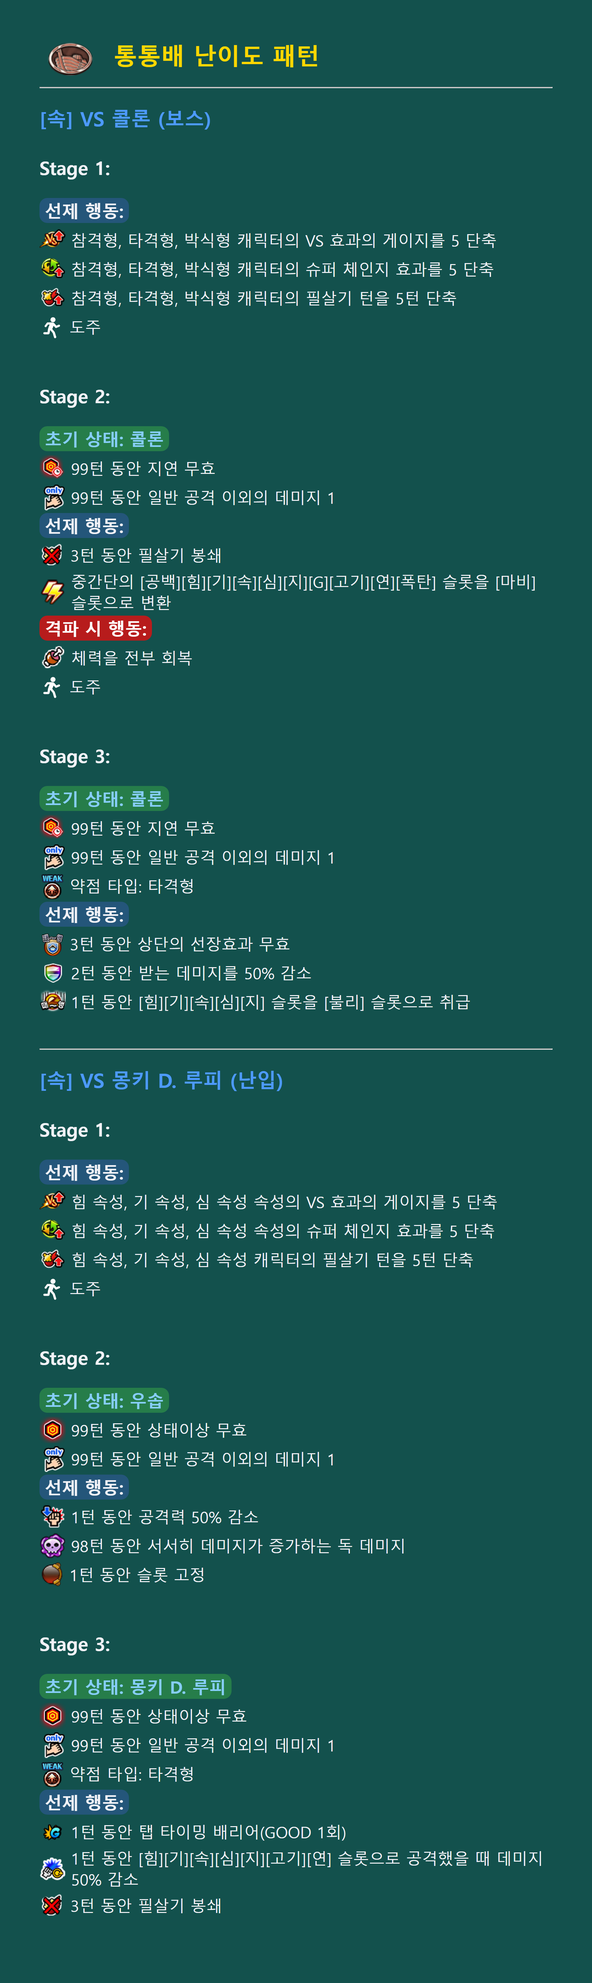
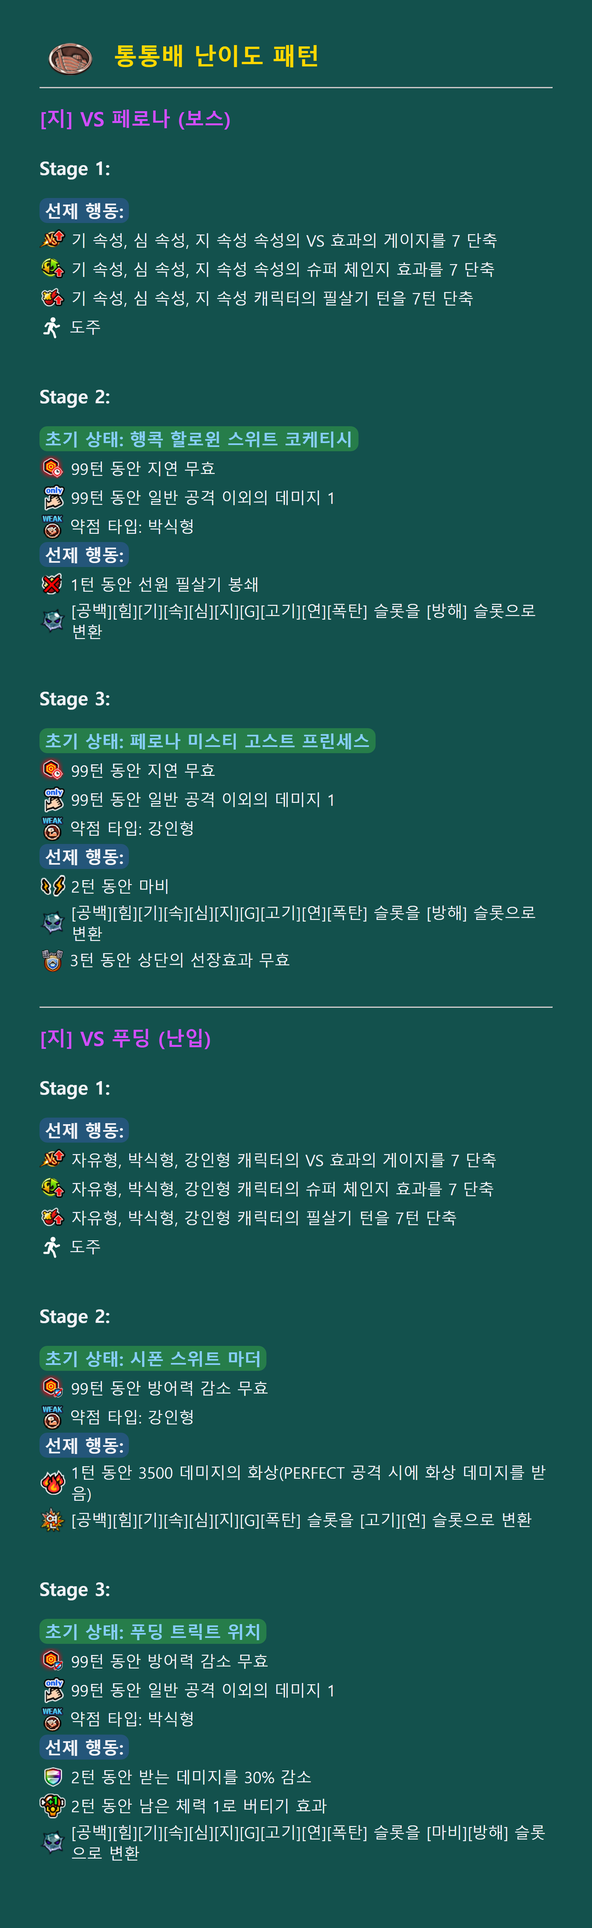
변경

diff --git a/TM_NW_full.html b/TM_NW_full.html
@@ -3,7 +3,7 @@
 <h1 style="solid #ccc; padding-bottom:10px;">
 <img src="img/icon_league_3.png" style="height:58px; vertical-align:middle; margin-right:6px;">
 신세계 난이도 패턴</h1>
-<hr><h2><span style='color:#4d9aff'>[속] VS 콜론</span><span style='color:#4d9aff'> (보스) </span></h2>
+<hr><h2><span style='color:#d24dff'>[지] VS 페로나</span><span style='color:#d24dff'> (보스) </span></h2>
 <html>
 <head>
 <meta charset="UTF-8">
@@ -26,35 +26,40 @@
        <h1></h1>
 <h3>Stage 1:</h3>
 <span class="label-preemptive">선제 행동:</span><br>
-<div class="icon-line"><img src="img/characterbox_icon_vs.png">참격형, 타격형, 박식형 캐릭터의 VS 효과의 게이지를 5 단축</div>
-<div class="icon-line"><img src="img/common_change_charge.png">참격형, 타격형, 박식형 캐릭터의 슈퍼 체인지 효과를 5 단축</div>
-<div class="icon-line"><img src="img/common_special_charge.png">참격형, 타격형, 박식형 캐릭터의 필살기 턴을 5턴 단축</div>
+<div class="icon-line"><img src="img/characterbox_icon_vs.png">기 속성, 심 속성, 지 속성 속성의 VS 효과의 게이지를 7 단축</div>
+<div class="icon-line"><img src="img/common_change_charge.png">기 속성, 심 속성, 지 속성 속성의 슈퍼 체인지 효과를 7 단축</div>
+<div class="icon-line"><img src="img/common_special_charge.png">기 속성, 심 속성, 지 속성 캐릭터의 필살기 턴을 7턴 단축</div>
 <div class="icon-line"><img src="img/common_run.png">도주</div>
 <br>
 <h3>Stage 2:</h3>
-<span class="label-initial" style="color:#87cefa">초기 상태: 콜론</span><br>
+<span class="label-initial" style="color:#87cefa">초기 상태: 행콕 할로윈 스위트 코케티시</span><br>
 <div class="icon-line"><img src="img/common_icon_mighty_guard_01.png">99턴 동안 지연 무효</div>
 <div class="icon-line"><img src="img/common_icon_damage_onlyone.png">99턴 동안 일반 공격 이외의 데미지 1</div>
+<div class="icon-line"><img src="img/common_weak_07.png">약점 타입: 박식형</div>
 <span class="label-preemptive">선제 행동:</span><br>
-<div class="icon-line"><img src="img/common_special_bind.png">10턴 동안 필살기 봉쇄</div>
-<div class="icon-line"><img src="img/popuptext_slot_palsy.png">[공백][힘][기][속][심][지][G][고기][연][폭탄] 슬롯을 [마비] 슬롯으로 변환</div>
-<span class="label-death">격파 시 행동:</span><br>
-<div class="icon-line"><img src="img/common_heal.png">체력을 전부 회복</div>
-<div class="icon-line"><img src="img/common_run.png">도주</div>
+<div class="icon-line"><img src="img/common_special_bind.png">5턴 동안 선원 필살기 봉쇄</div>
+<div class="icon-line"><img src="img/common_icon_chain_damagedown.png">1턴 동안 체인 계수가 2.5 이하일 경우 공격력 90% 감소</div>
+<div class="icon-line"><img src="img/popuptext_slot_obstacle.png">[공백][힘][기][속][심][지][G][고기][연][폭탄] 슬롯을 [방해] 슬롯으로 변환</div>
 <br>
 <h3>Stage 3:</h3>
-<span class="label-initial" style="color:#87cefa">초기 상태: 콜론</span><br>
+<span class="label-initial" style="color:#87cefa">초기 상태: 페로나 미스티 고스트 프린세스</span><br>
 <div class="icon-line"><img src="img/common_icon_mighty_guard_01.png">99턴 동안 지연 무효</div>
 <div class="icon-line"><img src="img/common_icon_damage_onlyone.png">99턴 동안 일반 공격 이외의 데미지 1</div>
-<div class="icon-line"><img src="img/common_weak_03.png">약점 타입: 타격형</div>
+<div class="icon-line"><img src="img/common_weak_08.png">약점 타입: 강인형</div>
 <span class="label-preemptive">선제 행동:</span><br>
+<div class="icon-line"><img src="img/common_icon_chain_damagedown.png">5턴 동안 체인 계수가 3.0 이하일 경우 공격력 90% 감소</div>
+<div class="icon-line"><img src="img/common_palsy.png">6턴 동안 마비</div>
+<div class="icon-line"><img src="img/popuptext_slot_obstacle.png">[공백][힘][기][속][심][지][G][고기][연][폭탄] 슬롯을 [방해] 슬롯으로 변환</div>
 <div class="icon-line"><img src="img/common_despair.png">9턴 동안 상단의 선장효과 무효</div>
-<div class="icon-line"><img src="img/common_icon_damagecut_dummy.png">14턴 동안 받는 데미지를 70% 감소</div>
-<div class="icon-line"><img src="img/common_stun.png">좌측은(는) 받는 데미지 2배의 기절</div>
-<div class="icon-line"><img src="img/common_icon_incidence_down_own.png">3턴 동안 [힘][기][속][심][지] 슬롯을 [불리] 슬롯으로 취급</div>
+<div class="icon-line"><img src="img/quest_combo_barrier_meat.png">2턴 동안 슬롯 배리어([고기] 슬롯 2회)</div>
+<span class="label-special" style="color:#87cefa">특수 끼어들기: 모든 체인 상승 효과</span><br>
+<div class="icon-line">1회까지</div>
+<div class="icon-line"><img src="img/common_del.png">유리 효과, 축적치 해제</div>
+<div class="icon-line"><img src="img/state_icon_invincible.png">1턴 동안 받는 데미지 무효</div>
+<div class="icon-line"><img src="img/common_icon_tap_countlimit.png">2턴 동안 탭 횟수 제한 3회</div>
 <br>
 </body></html>
-<hr><h2><span style='color:#4d9aff'>[속] VS 몽키 D. 루피</span><span style='color:#4d9aff'> (난입) </span></h2>
+<hr><h2><span style='color:#d24dff'>[지] VS 푸딩</span><span style='color:#d24dff'> (난입) </span></h2>
 <html>
 <head>
 <meta charset="UTF-8">
@@ -77,34 +82,34 @@
        <h1></h1>
 <h3>Stage 1:</h3>
 <span class="label-preemptive">선제 행동:</span><br>
-<div class="icon-line"><img src="img/characterbox_icon_vs.png">힘 속성, 기 속성, 심 속성 속성의 VS 효과의 게이지를 5 단축</div>
-<div class="icon-line"><img src="img/common_change_charge.png">힘 속성, 기 속성, 심 속성 속성의 슈퍼 체인지 효과를 5 단축</div>
-<div class="icon-line"><img src="img/common_special_charge.png">힘 속성, 기 속성, 심 속성 캐릭터의 필살기 턴을 5턴 단축</div>
+<div class="icon-line"><img src="img/characterbox_icon_vs.png">자유형, 박식형, 강인형 캐릭터의 VS 효과의 게이지를 7 단축</div>
+<div class="icon-line"><img src="img/common_change_charge.png">자유형, 박식형, 강인형 캐릭터의 슈퍼 체인지 효과를 7 단축</div>
+<div class="icon-line"><img src="img/common_special_charge.png">자유형, 박식형, 강인형 캐릭터의 필살기 턴을 7턴 단축</div>
 <div class="icon-line"><img src="img/common_run.png">도주</div>
 <br>
 <h3>Stage 2:</h3>
-<span class="label-initial" style="color:#87cefa">초기 상태: 우솝</span><br>
-<div class="icon-line"><img src="img/common_icon_mighty_guard_00.png">99턴 동안 상태이상 무효</div>
-<div class="icon-line"><img src="img/common_icon_damage_onlyone.png">99턴 동안 일반 공격 이외의 데미지 1</div>
+<span class="label-initial" style="color:#87cefa">초기 상태: 시폰 스위트 마더</span><br>
+<div class="icon-line"><img src="img/common_icon_mighty_guard_04.png">99턴 동안 방어력 감소 무효</div>
+<div class="icon-line"><img src="img/common_weak_08.png">약점 타입: 강인형</div>
 <span class="label-preemptive">선제 행동:</span><br>
-<div class="icon-line"><img src="img/common_state_icon_attack_down.png">6턴 동안 공격력 90% 감소</div>
-<div class="icon-line"><img src="img/popuptext_slot_poison.png">98턴 동안 서서히 데미지가 증가하는 독 데미지</div>
-<div class="icon-line"><img src="img/common_slot_lock.png">1턴 동안 슬롯 고정</div>
-<div class="icon-line"><img src="img/quest_combo_barrer_hit.png">3턴 동안 hit 배리어(20hit)</div>
-<div class="icon-line"><img src="img/popuptext_slot_poison.png">[공백][힘][기][속][심][지][G][고기][연][폭탄] 슬롯을 [독] 슬롯으로 변환</div>
+<div class="icon-line"><img src="img/common_icon_251_skill.png">7턴 동안 20000 데미지의 화상(PERFECT 공격 시에 화상 데미지를 받음)</div>
+<div class="icon-line"><img src="img/common_icon_taunt.png">1턴 동안 타겟 고정</div>
+<div class="icon-line"><img src="img/popuptext_slot_cooperation.png">[공백][힘][기][속][심][지][G][폭탄] 슬롯을 [고기][연] 슬롯으로 변환</div>
+<div class="icon-line"><img src="img/common_silence.png">1턴 동안 상단, 하단 침묵</div>
 <br>
 <h3>Stage 3:</h3>
-<span class="label-initial" style="color:#87cefa">초기 상태: 몽키 D. 루피</span><br>
-<div class="icon-line"><img src="img/common_icon_mighty_guard_00.png">99턴 동안 상태이상 무효</div>
+<span class="label-initial" style="color:#87cefa">초기 상태: 푸딩 트릭트 위치</span><br>
+<div class="icon-line"><img src="img/common_icon_mighty_guard_04.png">99턴 동안 방어력 감소 무효</div>
 <div class="icon-line"><img src="img/common_icon_damage_onlyone.png">99턴 동안 일반 공격 이외의 데미지 1</div>
-<div class="icon-line"><img src="img/common_weak_03.png">약점 타입: 타격형</div>
+<div class="icon-line"><img src="img/common_weak_07.png">약점 타입: 박식형</div>
 <span class="label-preemptive">선제 행동:</span><br>
-<div class="icon-line"><img src="img/quest_combo_barrier_1.png">3턴 동안 탭 타이밍 배리어(GOOD 3회)</div>
 <div class="icon-line"><img src="img/common_territory.png">2턴 동안 장소를 ‘구역: 적’(으)로 만든다</div>
-<div class="icon-line"><img src="img/common_icon_247_skill.png">3턴 동안 [힘][기][속][심][지][고기][연] 슬롯으로 공격했을 때 데미지 70% 감소</div>
-<div class="icon-line"><img src="img/common_special_bind.png">10턴 동안 필살기 봉쇄</div>
 <div class="icon-line"><img src="img/common_attack_up_01_icon.png">3턴 동안 일당의 공격력을 1.1배</div>
-<div class="icon-line"><img src="img/common_icon_slot.png">3턴 동안 슬롯의 영향을 1.1배</div>
+<div class="icon-line">3턴 동안 일반 공격에 의한 속성 상성의 영향을 1.1배</div>
+<div class="icon-line"><img src="img/common_icon_damagecut_dummy.png">6턴 동안 받는 데미지를 90% 감소</div>
+<div class="icon-line"><img src="img/common_guts_icon.png">6턴 동안 남은 체력 1로 버티기 효과</div>
+<div class="icon-line"><img src="img/popuptext_slot_obstacle.png">[공백][힘][기][속][심][지][G][고기][연][폭탄] 슬롯을 [마비][방해] 슬롯으로 변환</div>
+<div class="icon-line"><img src="img/common_blow.png">2턴 동안 선원, 좌측 상단을(를) 랜덤 3명 날려버리기</div>
 <br>
 </body></html>
 </body></html>

diff --git a/TM_GL_full.html b/TM_GL_full.html
@@ -3,7 +3,7 @@
 <h1 style="solid #ccc; padding-bottom:10px;">
 <img src="img/icon_league_2.png" style="height:58px; vertical-align:middle; margin-right:6px;">
 위대한 항로 난이도 패턴</h1>
-<hr><h2><span style='color:#4d9aff'>[속] VS 콜론</span><span style='color:#4d9aff'> (보스) </span></h2>
+<hr><h2><span style='color:#d24dff'>[지] VS 페로나</span><span style='color:#d24dff'> (보스) </span></h2>
 <html>
 <head>
 <meta charset="UTF-8">
@@ -26,35 +26,34 @@
        <h1></h1>
 <h3>Stage 1:</h3>
 <span class="label-preemptive">선제 행동:</span><br>
-<div class="icon-line"><img src="img/characterbox_icon_vs.png">참격형, 타격형, 박식형 캐릭터의 VS 효과의 게이지를 5 단축</div>
-<div class="icon-line"><img src="img/common_change_charge.png">참격형, 타격형, 박식형 캐릭터의 슈퍼 체인지 효과를 5 단축</div>
-<div class="icon-line"><img src="img/common_special_charge.png">참격형, 타격형, 박식형 캐릭터의 필살기 턴을 5턴 단축</div>
+<div class="icon-line"><img src="img/characterbox_icon_vs.png">기 속성, 심 속성, 지 속성 속성의 VS 효과의 게이지를 7 단축</div>
+<div class="icon-line"><img src="img/common_change_charge.png">기 속성, 심 속성, 지 속성 속성의 슈퍼 체인지 효과를 7 단축</div>
+<div class="icon-line"><img src="img/common_special_charge.png">기 속성, 심 속성, 지 속성 캐릭터의 필살기 턴을 7턴 단축</div>
 <div class="icon-line"><img src="img/common_run.png">도주</div>
 <br>
 <h3>Stage 2:</h3>
-<span class="label-initial" style="color:#87cefa">초기 상태: 콜론</span><br>
+<span class="label-initial" style="color:#87cefa">초기 상태: 행콕 할로윈 스위트 코케티시</span><br>
 <div class="icon-line"><img src="img/common_icon_mighty_guard_01.png">99턴 동안 지연 무효</div>
 <div class="icon-line"><img src="img/common_icon_damage_onlyone.png">99턴 동안 일반 공격 이외의 데미지 1</div>
+<div class="icon-line"><img src="img/common_weak_07.png">약점 타입: 박식형</div>
 <span class="label-preemptive">선제 행동:</span><br>
-<div class="icon-line"><img src="img/common_special_bind.png">5턴 동안 필살기 봉쇄</div>
-<div class="icon-line"><img src="img/popuptext_slot_palsy.png">선원의 [공백][힘][기][속][심][지][G][고기][연][폭탄] 슬롯을 [마비] 슬롯으로 변환</div>
-<span class="label-death">격파 시 행동:</span><br>
-<div class="icon-line"><img src="img/common_heal.png">체력을 전부 회복</div>
-<div class="icon-line"><img src="img/common_run.png">도주</div>
+<div class="icon-line"><img src="img/common_special_bind.png">3턴 동안 선원 필살기 봉쇄</div>
+<div class="icon-line"><img src="img/common_icon_chain_damagedown.png">1턴 동안 체인 계수가 2.0 이하일 경우 공격력 70% 감소</div>
+<div class="icon-line"><img src="img/popuptext_slot_obstacle.png">[공백][힘][기][속][심][지][G][고기][연][폭탄] 슬롯을 [방해] 슬롯으로 변환</div>
 <br>
 <h3>Stage 3:</h3>
-<span class="label-initial" style="color:#87cefa">초기 상태: 콜론</span><br>
+<span class="label-initial" style="color:#87cefa">초기 상태: 페로나 미스티 고스트 프린세스</span><br>
 <div class="icon-line"><img src="img/common_icon_mighty_guard_01.png">99턴 동안 지연 무효</div>
 <div class="icon-line"><img src="img/common_icon_damage_onlyone.png">99턴 동안 일반 공격 이외의 데미지 1</div>
-<div class="icon-line"><img src="img/common_weak_03.png">약점 타입: 타격형</div>
+<div class="icon-line"><img src="img/common_weak_08.png">약점 타입: 강인형</div>
 <span class="label-preemptive">선제 행동:</span><br>
-<div class="icon-line"><img src="img/common_despair.png">5턴 동안 상단의 선장효과 무효</div>
-<div class="icon-line"><img src="img/common_icon_damagecut_dummy.png">6턴 동안 받는 데미지를 70% 감소</div>
-<div class="icon-line"><img src="img/common_stun.png">좌측은(는) 받는 데미지 1.2배의 기절</div>
-<div class="icon-line"><img src="img/common_icon_incidence_down_own.png">2턴 동안 [힘][기][속][심][지] 슬롯을 [불리] 슬롯으로 취급</div>
+<div class="icon-line"><img src="img/common_icon_chain_damagedown.png">2턴 동안 체인 계수가 2.5 이하일 경우 공격력 70% 감소</div>
+<div class="icon-line"><img src="img/common_palsy.png">3턴 동안 마비</div>
+<div class="icon-line"><img src="img/popuptext_slot_obstacle.png">[공백][힘][기][속][심][지][G][고기][연][폭탄] 슬롯을 [방해] 슬롯으로 변환</div>
+<div class="icon-line"><img src="img/common_despair.png">4턴 동안 상단의 선장효과 무효</div>
 <br>
 </body></html>
-<hr><h2><span style='color:#4d9aff'>[속] VS 몽키 D. 루피</span><span style='color:#4d9aff'> (난입) </span></h2>
+<hr><h2><span style='color:#d24dff'>[지] VS 푸딩</span><span style='color:#d24dff'> (난입) </span></h2>
 <html>
 <head>
 <meta charset="UTF-8">
@@ -77,32 +76,31 @@
        <h1></h1>
 <h3>Stage 1:</h3>
 <span class="label-preemptive">선제 행동:</span><br>
-<div class="icon-line"><img src="img/characterbox_icon_vs.png">힘 속성, 기 속성, 심 속성 속성의 VS 효과의 게이지를 5 단축</div>
-<div class="icon-line"><img src="img/common_change_charge.png">힘 속성, 기 속성, 심 속성 속성의 슈퍼 체인지 효과를 5 단축</div>
-<div class="icon-line"><img src="img/common_special_charge.png">힘 속성, 기 속성, 심 속성 캐릭터의 필살기 턴을 5턴 단축</div>
+<div class="icon-line"><img src="img/characterbox_icon_vs.png">자유형, 박식형, 강인형 캐릭터의 VS 효과의 게이지를 7 단축</div>
+<div class="icon-line"><img src="img/common_change_charge.png">자유형, 박식형, 강인형 캐릭터의 슈퍼 체인지 효과를 7 단축</div>
+<div class="icon-line"><img src="img/common_special_charge.png">자유형, 박식형, 강인형 캐릭터의 필살기 턴을 7턴 단축</div>
 <div class="icon-line"><img src="img/common_run.png">도주</div>
 <br>
 <h3>Stage 2:</h3>
-<span class="label-initial" style="color:#87cefa">초기 상태: 우솝</span><br>
-<div class="icon-line"><img src="img/common_icon_mighty_guard_00.png">99턴 동안 상태이상 무효</div>
-<div class="icon-line"><img src="img/common_icon_damage_onlyone.png">99턴 동안 일반 공격 이외의 데미지 1</div>
+<span class="label-initial" style="color:#87cefa">초기 상태: 시폰 스위트 마더</span><br>
+<div class="icon-line"><img src="img/common_icon_mighty_guard_04.png">99턴 동안 방어력 감소 무효</div>
+<div class="icon-line"><img src="img/common_weak_08.png">약점 타입: 강인형</div>
 <span class="label-preemptive">선제 행동:</span><br>
-<div class="icon-line"><img src="img/common_state_icon_attack_down.png">2턴 동안 공격력 70% 감소</div>
-<div class="icon-line"><img src="img/popuptext_slot_poison.png">98턴 동안 서서히 데미지가 증가하는 독 데미지</div>
-<div class="icon-line"><img src="img/common_slot_lock.png">1턴 동안 슬롯 고정</div>
-<div class="icon-line"><img src="img/quest_combo_barrer_hit.png">1턴 동안 hit 배리어(10hit)</div>
-<div class="icon-line"><img src="img/popuptext_slot_poison.png">[공백][힘][기][속][심][지][G][고기][연][폭탄] 슬롯을 [독] 슬롯으로 변환</div>
+<div class="icon-line"><img src="img/common_icon_251_skill.png">2턴 동안 15000 데미지의 화상(PERFECT 공격 시에 화상 데미지를 받음)</div>
+<div class="icon-line"><img src="img/common_icon_taunt.png">1턴 동안 타겟 고정</div>
+<div class="icon-line"><img src="img/popuptext_slot_cooperation.png">[공백][힘][기][속][심][지][G][폭탄] 슬롯을 [고기][연] 슬롯으로 변환</div>
+<div class="icon-line"><img src="img/common_silence.png">1턴 동안 하단 침묵</div>
 <br>
 <h3>Stage 3:</h3>
-<span class="label-initial" style="color:#87cefa">초기 상태: 몽키 D. 루피</span><br>
-<div class="icon-line"><img src="img/common_icon_mighty_guard_00.png">99턴 동안 상태이상 무효</div>
+<span class="label-initial" style="color:#87cefa">초기 상태: 푸딩 트릭트 위치</span><br>
+<div class="icon-line"><img src="img/common_icon_mighty_guard_04.png">99턴 동안 방어력 감소 무효</div>
 <div class="icon-line"><img src="img/common_icon_damage_onlyone.png">99턴 동안 일반 공격 이외의 데미지 1</div>
-<div class="icon-line"><img src="img/common_weak_03.png">약점 타입: 타격형</div>
+<div class="icon-line"><img src="img/common_weak_07.png">약점 타입: 박식형</div>
 <span class="label-preemptive">선제 행동:</span><br>
-<div class="icon-line"><img src="img/quest_combo_barrier_1.png">1턴 동안 탭 타이밍 배리어(GOOD 2회)</div>
-<div class="icon-line"><img src="img/common_icon_247_skill.png">1턴 동안 [힘][기][속][심][지][고기][연] 슬롯으로 공격했을 때 데미지 70% 감소</div>
-<div class="icon-line"><img src="img/common_special_bind.png">5턴 동안 필살기 봉쇄</div>
-<div class="icon-line"><img src="img/common_attack_up_01_icon.png">3턴 동안 일당의 공격력을 1.1배</div>
+<div class="icon-line"><img src="img/common_icon_damagecut_dummy.png">3턴 동안 받는 데미지를 70% 감소</div>
+<div class="icon-line"><img src="img/common_guts_icon.png">3턴 동안 남은 체력 1로 버티기 효과</div>
+<div class="icon-line"><img src="img/popuptext_slot_obstacle.png">[공백][힘][기][속][심][지][G][고기][연][폭탄] 슬롯을 [마비][방해] 슬롯으로 변환</div>
+<div class="icon-line"><img src="img/common_blow.png">2턴 동안 선원, 좌측 상단을(를) 랜덤 1명 날려버리기</div>
 <br>
 </body></html>
 </body></html>

diff --git a/TM_EB_full.html b/TM_EB_full.html
@@ -3,7 +3,7 @@
 <h1 solid #ccc; padding-bottom:10px;">
 <img src="img/icon_league_1.png" style="height:58px; vertical-align:middle; margin-right:6px;">
 통통배 난이도 패턴</h1>
-<hr><h2><span style='color:#4d9aff'>[속] VS 콜론</span><span style='color:#4d9aff'> (보스) </span></h2>
+<hr><h2><span style='color:#d24dff'>[지] VS 페로나</span><span style='color:#d24dff'> (보스) </span></h2>
 <html>
 <head>
 <meta charset="UTF-8">
@@ -26,34 +26,32 @@
        <h1></h1>
 <h3>Stage 1:</h3>
 <span class="label-preemptive">선제 행동:</span><br>
-<div class="icon-line"><img src="img/characterbox_icon_vs.png">참격형, 타격형, 박식형 캐릭터의 VS 효과의 게이지를 5 단축</div>
-<div class="icon-line"><img src="img/common_change_charge.png">참격형, 타격형, 박식형 캐릭터의 슈퍼 체인지 효과를 5 단축</div>
-<div class="icon-line"><img src="img/common_special_charge.png">참격형, 타격형, 박식형 캐릭터의 필살기 턴을 5턴 단축</div>
+<div class="icon-line"><img src="img/characterbox_icon_vs.png">기 속성, 심 속성, 지 속성 속성의 VS 효과의 게이지를 7 단축</div>
+<div class="icon-line"><img src="img/common_change_charge.png">기 속성, 심 속성, 지 속성 속성의 슈퍼 체인지 효과를 7 단축</div>
+<div class="icon-line"><img src="img/common_special_charge.png">기 속성, 심 속성, 지 속성 캐릭터의 필살기 턴을 7턴 단축</div>
 <div class="icon-line"><img src="img/common_run.png">도주</div>
 <br>
 <h3>Stage 2:</h3>
-<span class="label-initial" style="color:#87cefa">초기 상태: 콜론</span><br>
+<span class="label-initial" style="color:#87cefa">초기 상태: 행콕 할로윈 스위트 코케티시</span><br>
 <div class="icon-line"><img src="img/common_icon_mighty_guard_01.png">99턴 동안 지연 무효</div>
 <div class="icon-line"><img src="img/common_icon_damage_onlyone.png">99턴 동안 일반 공격 이외의 데미지 1</div>
+<div class="icon-line"><img src="img/common_weak_07.png">약점 타입: 박식형</div>
 <span class="label-preemptive">선제 행동:</span><br>
-<div class="icon-line"><img src="img/common_special_bind.png">3턴 동안 필살기 봉쇄</div>
-<div class="icon-line"><img src="img/popuptext_slot_palsy.png">중간단의 [공백][힘][기][속][심][지][G][고기][연][폭탄] 슬롯을 [마비] 슬롯으로 변환</div>
-<span class="label-death">격파 시 행동:</span><br>
-<div class="icon-line"><img src="img/common_heal.png">체력을 전부 회복</div>
-<div class="icon-line"><img src="img/common_run.png">도주</div>
+<div class="icon-line"><img src="img/common_special_bind.png">1턴 동안 선원 필살기 봉쇄</div>
+<div class="icon-line"><img src="img/popuptext_slot_obstacle.png">[공백][힘][기][속][심][지][G][고기][연][폭탄] 슬롯을 [방해] 슬롯으로 변환</div>
 <br>
 <h3>Stage 3:</h3>
-<span class="label-initial" style="color:#87cefa">초기 상태: 콜론</span><br>
+<span class="label-initial" style="color:#87cefa">초기 상태: 페로나 미스티 고스트 프린세스</span><br>
 <div class="icon-line"><img src="img/common_icon_mighty_guard_01.png">99턴 동안 지연 무효</div>
 <div class="icon-line"><img src="img/common_icon_damage_onlyone.png">99턴 동안 일반 공격 이외의 데미지 1</div>
-<div class="icon-line"><img src="img/common_weak_03.png">약점 타입: 타격형</div>
+<div class="icon-line"><img src="img/common_weak_08.png">약점 타입: 강인형</div>
 <span class="label-preemptive">선제 행동:</span><br>
+<div class="icon-line"><img src="img/common_palsy.png">2턴 동안 마비</div>
+<div class="icon-line"><img src="img/popuptext_slot_obstacle.png">[공백][힘][기][속][심][지][G][고기][연][폭탄] 슬롯을 [방해] 슬롯으로 변환</div>
 <div class="icon-line"><img src="img/common_despair.png">3턴 동안 상단의 선장효과 무효</div>
-<div class="icon-line"><img src="img/common_icon_damagecut_dummy.png">2턴 동안 받는 데미지를 50% 감소</div>
-<div class="icon-line"><img src="img/common_icon_incidence_down_own.png">1턴 동안 [힘][기][속][심][지] 슬롯을 [불리] 슬롯으로 취급</div>
 <br>
 </body></html>
-<hr><h2><span style='color:#4d9aff'>[속] VS 몽키 D. 루피</span><span style='color:#4d9aff'> (난입) </span></h2>
+<hr><h2><span style='color:#d24dff'>[지] VS 푸딩</span><span style='color:#d24dff'> (난입) </span></h2>
 <html>
 <head>
 <meta charset="UTF-8">
@@ -76,29 +74,28 @@
        <h1></h1>
 <h3>Stage 1:</h3>
 <span class="label-preemptive">선제 행동:</span><br>
-<div class="icon-line"><img src="img/characterbox_icon_vs.png">힘 속성, 기 속성, 심 속성 속성의 VS 효과의 게이지를 5 단축</div>
-<div class="icon-line"><img src="img/common_change_charge.png">힘 속성, 기 속성, 심 속성 속성의 슈퍼 체인지 효과를 5 단축</div>
-<div class="icon-line"><img src="img/common_special_charge.png">힘 속성, 기 속성, 심 속성 캐릭터의 필살기 턴을 5턴 단축</div>
+<div class="icon-line"><img src="img/characterbox_icon_vs.png">자유형, 박식형, 강인형 캐릭터의 VS 효과의 게이지를 7 단축</div>
+<div class="icon-line"><img src="img/common_change_charge.png">자유형, 박식형, 강인형 캐릭터의 슈퍼 체인지 효과를 7 단축</div>
+<div class="icon-line"><img src="img/common_special_charge.png">자유형, 박식형, 강인형 캐릭터의 필살기 턴을 7턴 단축</div>
 <div class="icon-line"><img src="img/common_run.png">도주</div>
 <br>
 <h3>Stage 2:</h3>
-<span class="label-initial" style="color:#87cefa">초기 상태: 우솝</span><br>
-<div class="icon-line"><img src="img/common_icon_mighty_guard_00.png">99턴 동안 상태이상 무효</div>
-<div class="icon-line"><img src="img/common_icon_damage_onlyone.png">99턴 동안 일반 공격 이외의 데미지 1</div>
+<span class="label-initial" style="color:#87cefa">초기 상태: 시폰 스위트 마더</span><br>
+<div class="icon-line"><img src="img/common_icon_mighty_guard_04.png">99턴 동안 방어력 감소 무효</div>
+<div class="icon-line"><img src="img/common_weak_08.png">약점 타입: 강인형</div>
 <span class="label-preemptive">선제 행동:</span><br>
-<div class="icon-line"><img src="img/common_state_icon_attack_down.png">1턴 동안 공격력 50% 감소</div>
-<div class="icon-line"><img src="img/popuptext_slot_poison.png">98턴 동안 서서히 데미지가 증가하는 독 데미지</div>
-<div class="icon-line"><img src="img/common_slot_lock.png">1턴 동안 슬롯 고정</div>
+<div class="icon-line"><img src="img/common_icon_251_skill.png">1턴 동안 3500 데미지의 화상(PERFECT 공격 시에 화상 데미지를 받음)</div>
+<div class="icon-line"><img src="img/popuptext_slot_cooperation.png">[공백][힘][기][속][심][지][G][폭탄] 슬롯을 [고기][연] 슬롯으로 변환</div>
 <br>
 <h3>Stage 3:</h3>
-<span class="label-initial" style="color:#87cefa">초기 상태: 몽키 D. 루피</span><br>
-<div class="icon-line"><img src="img/common_icon_mighty_guard_00.png">99턴 동안 상태이상 무효</div>
+<span class="label-initial" style="color:#87cefa">초기 상태: 푸딩 트릭트 위치</span><br>
+<div class="icon-line"><img src="img/common_icon_mighty_guard_04.png">99턴 동안 방어력 감소 무효</div>
 <div class="icon-line"><img src="img/common_icon_damage_onlyone.png">99턴 동안 일반 공격 이외의 데미지 1</div>
-<div class="icon-line"><img src="img/common_weak_03.png">약점 타입: 타격형</div>
+<div class="icon-line"><img src="img/common_weak_07.png">약점 타입: 박식형</div>
 <span class="label-preemptive">선제 행동:</span><br>
-<div class="icon-line"><img src="img/quest_combo_barrier_1.png">1턴 동안 탭 타이밍 배리어(GOOD 1회)</div>
-<div class="icon-line"><img src="img/common_icon_247_skill.png">1턴 동안 [힘][기][속][심][지][고기][연] 슬롯으로 공격했을 때 데미지 50% 감소</div>
-<div class="icon-line"><img src="img/common_special_bind.png">3턴 동안 필살기 봉쇄</div>
+<div class="icon-line"><img src="img/common_icon_damagecut_dummy.png">2턴 동안 받는 데미지를 30% 감소</div>
+<div class="icon-line"><img src="img/common_guts_icon.png">2턴 동안 남은 체력 1로 버티기 효과</div>
+<div class="icon-line"><img src="img/popuptext_slot_obstacle.png">[공백][힘][기][속][심][지][G][고기][연][폭탄] 슬롯을 [마비][방해] 슬롯으로 변환</div>
 <br>
 </body></html>
 </body></html>

diff --git a/index.html b/index.html
@@ -8,13 +8,13 @@
       <a href="TM.html">
         <img src="img/common_TM_LOGO.png" style="height: 160px;">
       </a>
-      <div style="font-size: 20px; color: white; margin-top: 6px;">2026-09-16 18:00 ~ <br>2026-09-20 22:59<br>🔴 종료</div>
+      <div style="font-size: 20px; color: white; margin-top: 6px;">2026-10-14 18:00 ~ <br>2026-10-18 22:59<br>⚪ 예정</div>
     </div>
     <div>
       <a href="PKA.html">
         <img src="img/common_PKA_LOGO.png" style="height: 160px;">
       </a>
-      <div style="font-size: 20px; color: white; margin-top: 6px;">2026-09-28 12:00 ~ <br>2026-10-25 22:59<br>⚪ 예정</div>
+      <div style="font-size: 20px; color: white; margin-top: 6px;">2026-09-28 12:00 ~ <br>2026-10-25 22:59<br>🟢 개최 중</div>
     </div>
     <div>
       <a href="KIZUNA.html">
@@ -23,6 +23,6 @@
       <div style="font-size: 20px; color: white; margin-top: 6px;">2026-09-23 12:00 ~ <br>2026-09-27 22:59<br>🔴 종료</div>
     </div>
   </div>
-  <footer style="margin-top: 60px; font-size: 20px; color: #aaa;">최종 업데이트: 2026-09-27</footer>
+  <footer style="margin-top: 60px; font-size: 20px; color: #aaa;">최종 업데이트: 2026-10-11</footer>
 </body>
 </html>

diff --git a/KIZUNA.html b/KIZUNA.html
@@ -34,5 +34,5 @@
 <li><a href='KIZUNA_SUPERBOSS1.html' style='font-size:28px !important'>[초보스] [속] VS 퀸</a></li>
 <li><a href='KIZUNA_SUPERBOSS2.html' style='font-size:28px !important'>[초보스] [힘] VS 퀸</a></li>
 </ul>
-<footer style="margin-top: 60px; font-size: 20px; color: #aaa;">최종 업데이트: 2026-09-27</footer>
+<footer style="margin-top: 60px; font-size: 20px; color: #aaa;">최종 업데이트: 2026-10-11</footer>
 </body></html>

diff --git a/PKA.html b/PKA.html
@@ -33,6 +33,6 @@
 <ul>
   <li><a href='PKA_MID_BOSS2.html' style='font-size:24px'>VS 로키</a></li><li><a href='PKA_MID_BOSS1.html' style='font-size:24px'>VS 콜론</a></li>
 </ul>
-<footer style="margin-top: 60px; font-size: 20px; color: #aaa;">최종 업데이트: 2026-09-27</footer>
+<footer style="margin-top: 60px; font-size: 20px; color: #aaa;">최종 업데이트: 2026-10-11</footer>
 </body>
 </html>

diff --git a/TM.html b/TM.html
@@ -35,6 +35,6 @@
   <li><a href="TM_GL_full.html">위대한 항로</a></li>
   <li><a href="TM_EB_full.html">통통배</a></li>
 </ul>
-<footer style="margin-top: 60px; font-size: 20px; color: #aaa;">최종 업데이트: 2026-09-27</footer>
+<footer style="margin-top: 60px; font-size: 20px; color: #aaa;">최종 업데이트: 2026-10-11</footer>
 </body>
 </html>
